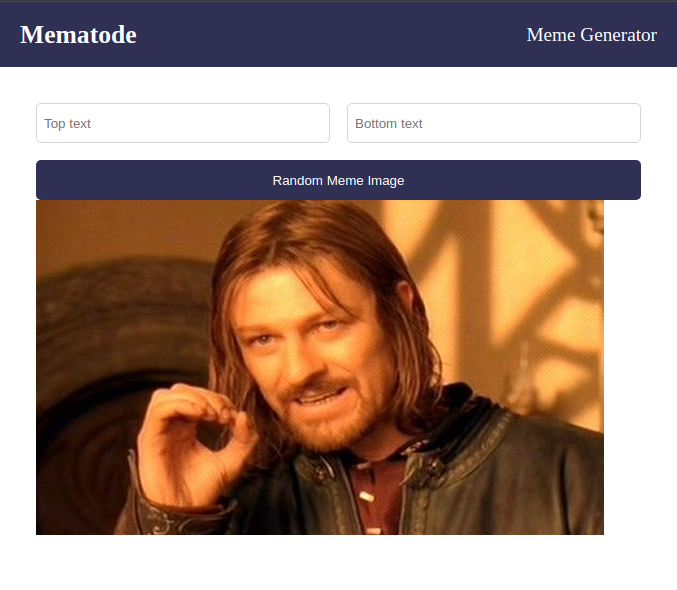
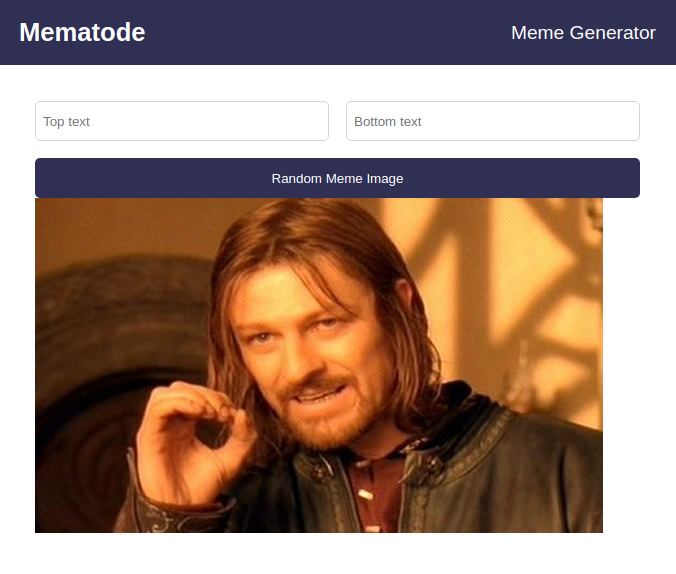
Refactor 'memeImage' state to 'meme' state

diff --git a/src/components/Meme.jsx b/src/components/Meme.jsx
@@ -2,7 +2,11 @@ import { useState } from 'react';
 import memesData from '../memesData';
 
 export default function Meme() {
-  const [memeImage, setMemeImage] = useState('http://i.imgflip.com/1bij.jpg');
+  const [meme, setMeme] = useState({
+    topText: '',
+    bottomText: '',
+    randomImage: 'http://i.imgflip.com/1bij.jpg',
+  });
 
   function getMemeImage() {
     const memesArray = memesData.data.memes;

diff --git a/src/index.css b/src/index.css
@@ -3,6 +3,7 @@
 }
 
 body {
+  font-family: Helvetica, Arial, sans-serif;
   margin: 0;
 }
 
@@ -36,12 +37,14 @@ body {
 }
 
 .form-input {
+  font-family: Helvetica, Arial, sans-serif;
   border-radius: 5px;
   border: 1px solid #d5d4d8;
   text-indent: 5px;
 }
 
 .form-button {
+  font-family: Helvetica, Arial, sans-serif;
   grid-column: 1 / -1;
   border-radius: 5px;
   background: #303055;
